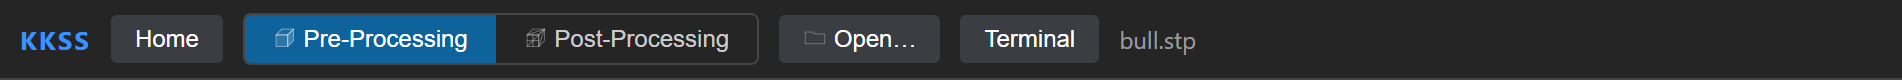
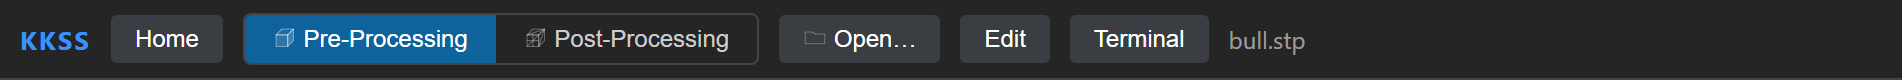
feat: add edit functionality to open current file in text editor and update documentation

Changed region(s): [[0.4963, 0.175, 0.6824, 0.8]]

diff --git a/app/main/services/editor.ts b/app/main/services/editor.ts
@@ -12,6 +12,15 @@ import { BaseWindow, dialog, ipcMain, WebContents } from "electron";
 import * as fs from "node:fs";
 import * as path from "node:path";
 import type { EditorLanguage, EditorToHost, EditorToWebview } from "../ipc";
+import { toast } from "./notifications";
+
+/** Refuse to text-edit files bigger than this (CodeMirror stays responsive). */
+const MAX_EDIT_BYTES = 20 * 1024 * 1024;
+
+/** NUL byte in the head of the file → treat as binary, not editable text. */
+function looksBinary(buffer: Buffer): boolean {
+  return buffer.subarray(0, 8192).includes(0);
+}
 
 const FILE_FILTERS = [
   { name: "Text files", extensions: ["json", "py", "mdpa", "txt", "md", "dat", "csv", "yml", "yaml"] },
@@ -83,27 +92,49 @@ export class EditorService {
 
   /** Pick a file and load it into the editor (guards unsaved changes). */
   async open(): Promise<void> {
-    if (this.dirty) {
-      const { response } = await dialog.showMessageBox(this.deps.getWindow(), {
-        type: "warning",
-        message: `Discard unsaved changes to ${this.currentPath ? path.basename(this.currentPath) : "the current file"}?`,
-        buttons: ["Discard changes", "Cancel"],
-        defaultId: 1,
-        cancelId: 1,
-      });
-      if (response !== 0) return;
-    }
+    if (!(await this.confirmDiscard())) return;
     const result = await dialog.showOpenDialog(this.deps.getWindow(), {
       title: "Open in Text Editor",
       filters: FILE_FILTERS,
       properties: ["openFile"],
     });
     if (result.canceled || !result.filePaths[0]) return;
-    const fsPath = path.resolve(result.filePaths[0]);
-    const content = await fs.promises.readFile(fsPath, "utf8");
+    await this.load(path.resolve(result.filePaths[0]));
+  }
+
+  /** Load a known path directly (toolbar "Edit" on the current file). */
+  async openPath(fsPath: string): Promise<void> {
+    if (!(await this.confirmDiscard())) return;
+    await this.load(path.resolve(fsPath));
+  }
+
+  private async confirmDiscard(): Promise<boolean> {
+    if (!this.dirty) return true;
+    const { response } = await dialog.showMessageBox(this.deps.getWindow(), {
+      type: "warning",
+      message: `Discard unsaved changes to ${this.currentPath ? path.basename(this.currentPath) : "the current file"}?`,
+      buttons: ["Discard changes", "Cancel"],
+      defaultId: 1,
+      cancelId: 1,
+    });
+    return response === 0;
+  }
+
+  private async load(fsPath: string): Promise<void> {
+    const name = path.basename(fsPath);
+    const stat = await fs.promises.stat(fsPath);
+    if (stat.size > MAX_EDIT_BYTES) {
+      toast("warning", `${name} is too large to edit as text (${Math.round(stat.size / 1024 / 1024)} MB).`);
+      return;
+    }
+    const buffer = await fs.promises.readFile(fsPath);
+    if (looksBinary(buffer)) {
+      toast("warning", `${name} is a binary file — it can't be edited as text.`);
+      return;
+    }
     this.currentPath = fsPath;
     this.dirty = false;
-    this.lastDoc = { type: "doc", path: fsPath, content, language: languageFor(fsPath) };
+    this.lastDoc = { type: "doc", path: fsPath, content: buffer.toString("utf8"), language: languageFor(fsPath) };
     this.send(this.lastDoc);
     this.deps.showEditor();
     this.title();

diff --git a/app/main/index.ts b/app/main/index.ts
@@ -12,7 +12,7 @@ import { configurePicker } from "./services/quickPick";
 import { configureAbout, showAbout } from "./services/about";
 import { TerminalService } from "./services/terminal";
 import { EditorService } from "./services/editor";
-import { configureNotifications, handleToastButton } from "./services/notifications";
+import { configureNotifications, handleToastButton, toast } from "./services/notifications";
 import { stateStore } from "./services/stateStore";
 import { __configureVscodeShim } from "./vscodeShim";
 import { openMesh } from "../../mesh/src/meshExport";
@@ -161,6 +161,12 @@ app.whenReady().then(() => {
       case "toggleTerminal":
         toggleTerminal();
         break;
+      case "editCurrentFile": {
+        const current = main.mode() === "cad" ? cadHost?.currentFile : meshHost?.currentFile;
+        if (current) void editor?.openPath(current);
+        else toast("warning", "No file open in the current mode — use Open… first.");
+        break;
+      }
       case "openFile":
         if (main.mode() === "cad") void cadHost?.openFileDialog();
         else void openMesh(); // mesh/src/meshExport openMesh → dialog → openWith hook

diff --git a/app/renderer/shell/shell.css b/app/renderer/shell/shell.css
@@ -59,6 +59,7 @@ body {
 
 #home-btn,
 #open-btn,
+#edit-btn,
 #terminal-btn {
   background: var(--vscode-button-secondaryBackground);
   color: var(--vscode-button-secondaryForeground);
@@ -71,6 +72,7 @@ body {
 
 #home-btn:hover,
 #open-btn:hover,
+#edit-btn:hover,
 #terminal-btn:hover {
   background: var(--vscode-button-secondaryHoverBackground);
 }

diff --git a/app/renderer/shell/shell.ts b/app/renderer/shell/shell.ts
@@ -23,6 +23,7 @@ const homeBtn = byId<HTMLButtonElement>("home-btn");
 const btnCad = byId<HTMLButtonElement>("mode-cad");
 const btnMesh = byId<HTMLButtonElement>("mode-mesh");
 const openBtn = byId<HTMLButtonElement>("open-btn");
+const editBtn = byId<HTMLButtonElement>("edit-btn");
 const terminalBtn = byId<HTMLButtonElement>("terminal-btn");
 const fileTitle = byId<HTMLSpanElement>("file-title");
 const toasts = byId<HTMLDivElement>("toasts");
@@ -52,6 +53,7 @@ homeBtn.addEventListener("click", () => api.post({ type: "goHome" }));
 btnCad.addEventListener("click", () => api.post({ type: "setMode", mode: "cad" }));
 btnMesh.addEventListener("click", () => api.post({ type: "setMode", mode: "mesh" }));
 openBtn.addEventListener("click", () => api.post({ type: "openFile" }));
+editBtn.addEventListener("click", () => api.post({ type: "editCurrentFile" }));
 terminalBtn.addEventListener("click", () => api.post({ type: "toggleTerminal" }));
 
 api.onMessage((raw) => {

diff --git a/app/main/ipc.ts b/app/main/ipc.ts
@@ -105,6 +105,7 @@ export type ShellToHost =
   | { type: "setMode"; mode: Mode }
   | { type: "goHome" }
   | { type: "toggleTerminal" }
+  | { type: "editCurrentFile" }
   | { type: "openFile" }
   | { type: "toastButton"; id: number; button: string };
 

diff --git a/app/renderer/shell/index.html b/app/renderer/shell/index.html
@@ -17,6 +17,7 @@
       <button id="mode-mesh" class="mode-btn" role="tab" title="Post-processing: mesh inspection, modification and results">Post-Processing</button>
     </div>
     <button id="open-btn" title="Open a file in the current mode (Ctrl+O)">Open&hellip;</button>
+    <button id="edit-btn" title="Open the current file in the text editor">Edit</button>
     <button id="terminal-btn" title="Toggle the embedded terminal (Ctrl+`)">Terminal</button>
     <span id="file-title"></span>
     <div id="toasts"></div>

diff --git a/doc/guide/getting-started.md b/doc/guide/getting-started.md
@@ -74,9 +74,13 @@ by both modes; its height is fixed in this version.
 
 ## Text editor
 
-**Text Editor** on the home screen (or **File ▸ Open in Text Editor…**)
-opens a lightweight editor for input files, scripts and configuration —
-`.json` and `.py` get syntax highlighting. `Ctrl+S` saves, `Ctrl+Shift+S`
+The **Edit** toolbar button opens the file currently loaded in the active
+mode (`.mdpa`, `.stp`, …) as plain text — handy for touching up an input deck
+without leaving the app. **Text Editor** on the home screen (or **File ▸
+Open in Text Editor…**) opens any file via a dialog instead. It's a
+lightweight editor for input files, scripts and configuration — `.json` and
+`.py` get syntax highlighting; binary or very large files are refused with a
+notice. `Ctrl+S` saves, `Ctrl+Shift+S`
 saves as, and the toolbar has Open/Save/Save As buttons. Unsaved changes show
 a ● next to the file name; switching screens never loses the buffer, and
 closing the window with unsaved changes prompts to save. Pair it with the